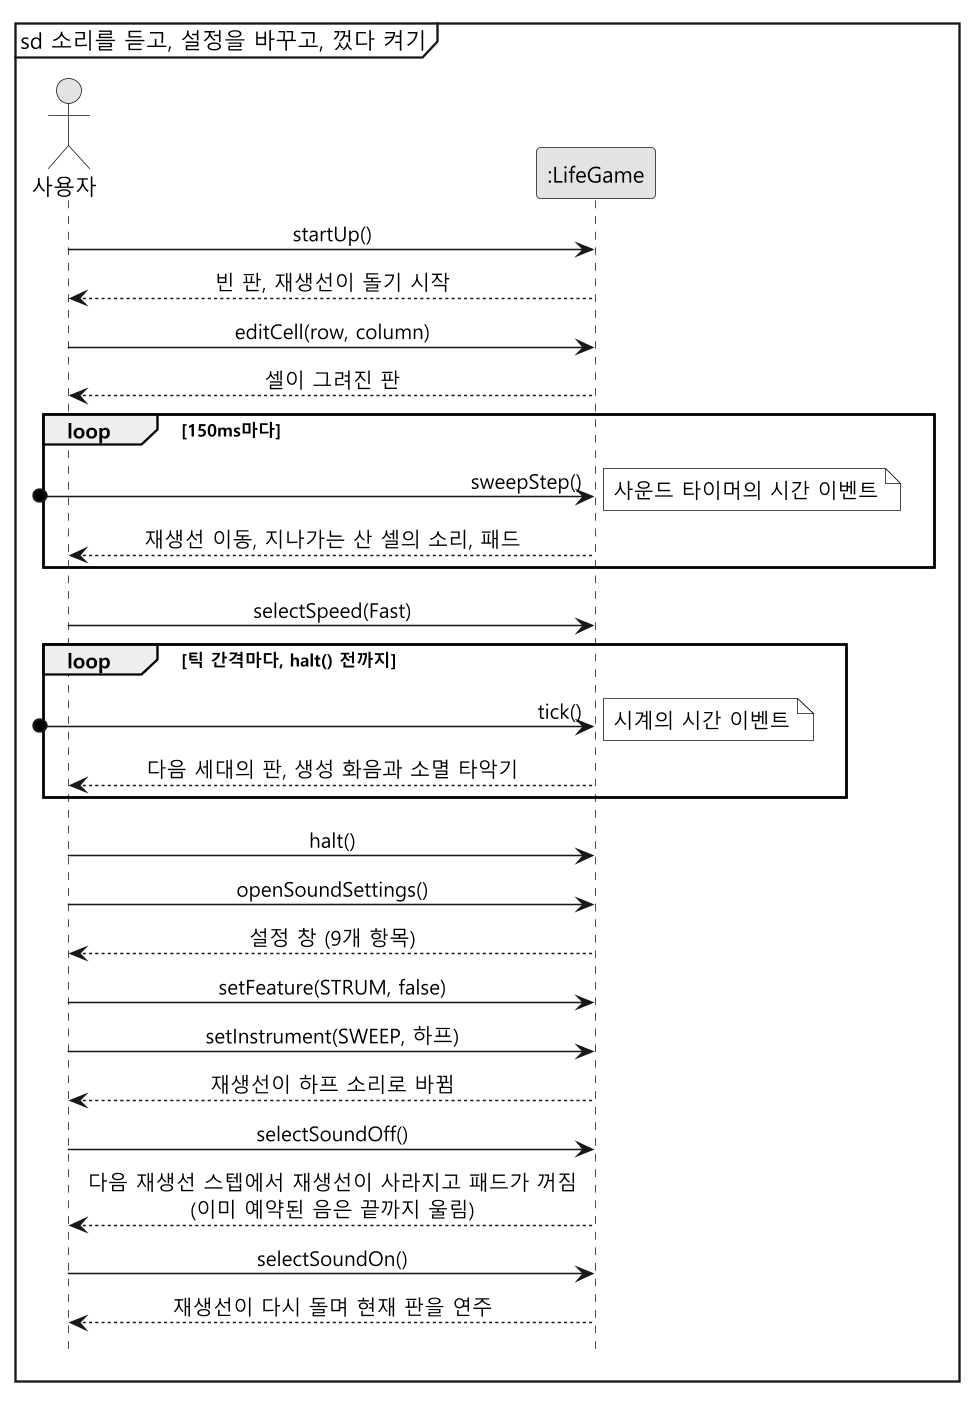
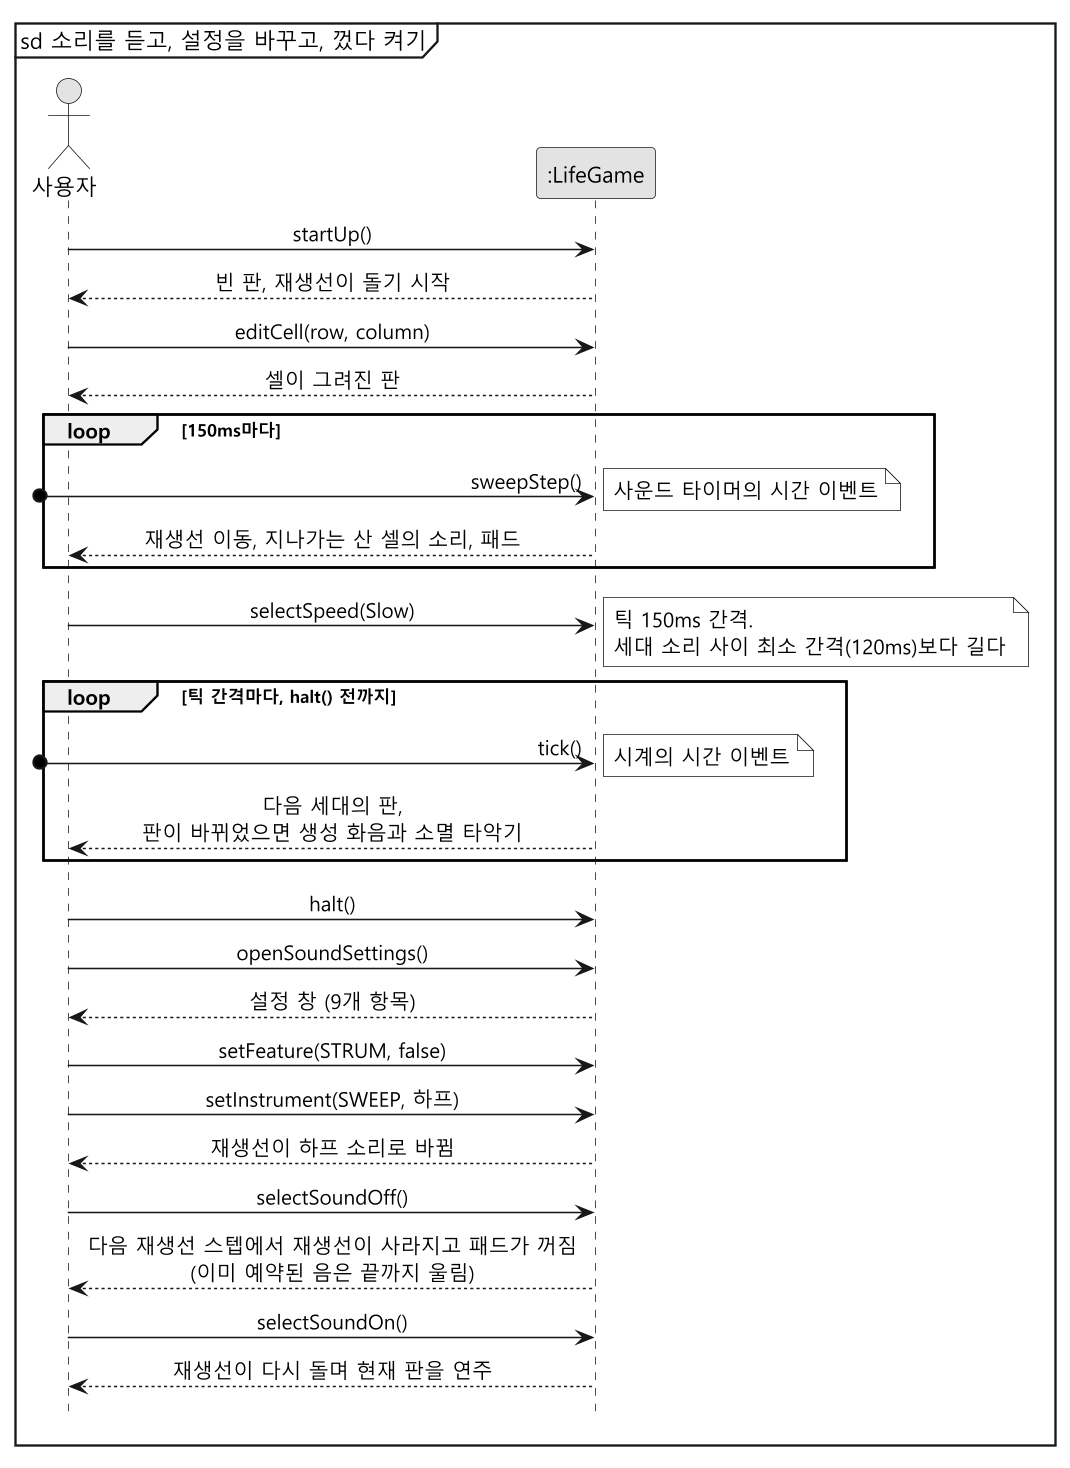
docs(sound): 제출 전 사운드 문서 최종 다듬기
한 세대에 나는 음 수를 대량 생성 레이어까지 넣어 고치고, 시스템 시퀀스 다이어그램은 속도를 Slow로 바꿔 다시 그렸다. 겹치는 설명은 줄였다.

Refs #2

diff --git a/docs/sound-effects/sound-effects-spec.md b/docs/sound-effects/sound-effects-spec.md
@@ -102,7 +102,7 @@ MIDI 신시사이저를 열 수 없는 환경에서는 `Sound disabled: ...` 한
 
 ### 2.2 유스케이스 명세
 
-기본 흐름은 아무 문제가 없을 때의 순서이고, 대안 흐름은 그중 한 단계에서 갈라지는 경우다. 대안 흐름의 1a는 기본 흐름 1단계에서 갈라지는 첫 번째 경우다.
+대안 흐름의 1a는 기본 흐름 1단계에서 갈라지는 첫 번째 경우다.
 
 #### UC-S1 Hear Generation Sound(E)
 
@@ -193,7 +193,7 @@ MIDI 신시사이저를 열 수 없는 환경에서는 `Sound disabled: ...` 한
 
 ## 3. 요구사항
 
-기능 요구사항(F)은 시스템이 무엇을 하는지, 비기능 요구사항(N)은 구조·반응성·실행 환경처럼 어떻게 동작해야 하는지다. 요구사항마다 확인하는 테스트를 함께 적었다. 테스트 내용은 6장에 있다.
+요구사항마다 확인하는 테스트를 함께 적었다. 테스트 내용은 6장에 있다.
 
 ### 3.1 기능 요구사항
 
@@ -244,7 +244,7 @@ MIDI 신시사이저를 열 수 없는 환경에서는 `Sound disabled: ...` 한
 
 `SoundEffects`가 `Clock`을 직접 구독하는 방법도 봤다. `Universe`를 고치지 않아도 되지만, 구독 순서 때문에 바뀌기 전의 판을 보게 되고 무엇이 바뀌었는지도 사운드가 따로 계산해야 했다. 방법별 비교는 [sound-effects.md](sound-effects.md) 5.1절에 있다.
 
-대신 변화를 찾으려고 틱마다 판(64×64)을 전이 전과 후에 한 번씩 읽는다. 화면을 다시 그리는 것보다 훨씬 가벼워서 그대로 뒀다. 또 리스너는 Swing 이벤트 스레드에서 불리기 때문에 오래 걸리면 화면이 같이 멈춘다. 4.2의 Command 구조는 이 때문에 필요했다.
+대신 변화를 찾으려고 틱마다 판(64×64)을 전이 전과 후에 한 번씩 읽는다. 화면을 다시 그리는 것보다 훨씬 가벼워서 그대로 뒀다. 또 리스너는 Swing 이벤트 스레드에서 불리기 때문에 오래 걸리면 화면이 같이 멈춘다.
 
 처음에는 사운드 전용 인터페이스 `Universe.GenerationListener`를 두고, 구독 관리는 Holub 코드의 `Publisher`를 썼다. 통계 기능도 같은 세대 정보가 필요해서, 두 기능이 같은 이벤트를 받도록 `BoardChangeListener`와 `BoardChangeEvent`로 합쳐졌다. 소리를 만드는 코드가 처음부터 `Universe`와 떨어져 있어서 이때 사운드 쪽에서 고친 곳은 `SoundEffects`의 수신부 30줄 정도였고, `NoteMapper`, `RepeatTracker`, `SoundSettings`는 그대로였다.
 
@@ -272,13 +272,13 @@ MIDI 신시사이저를 열 수 없는 환경에서는 `Sound disabled: ...` 한
 
 | 역할 | 클래스 |
 |---|---|
-| Component | `Cell` (`isAliveAt(row, column)`, 드래그 그리기 기능이 더함) |
+| Component | `Cell` (`isAliveAt(row, column)`) |
 | Composite | `Neighborhood` |
 | Leaf | `Resident` |
 
 `Neighborhood`는 좌표를 나눠 어느 하위 칸인지 찾고, 그 칸 안의 좌표로 바꿔 넘긴다. `Resident`는 자기 상태를 답한다. 그래서 사운드 작업에서 더한 `Universe.liveCells()`는 칸마다 가장 바깥 셀에만 물으면 되고, 판이 몇 겹인지 몰라도 된다. 판 바깥의 이웃을 대신하는 `Cell.DUMMY`도 `Cell`을 구현해서 `isAliveAt()`을 갖지만(항상 `false`), 트리에 들어가지 않으므로 Leaf로 보지 않았다.
 
-이 연산을 쓰지 않는 방법도 두 가지 있었다. Load/Store에 쓰는 Memento를 다시 쓰는 방법은 5장에 적었다. `Universe`가 `boolean[][]`을 따로 들고 있는 방법은 클릭·Clear·Load·세대 진행 때마다 실제 셀과 맞춰 줘야 하고, 한 곳만 빠져도 소리와 화면이 어긋난다.
+이 연산 대신 Load/Store에 쓰는 Memento를 다시 쓰는 방법은 5장에 적었다. `Universe`가 `boolean[][]`을 따로 들고 있는 방법은 클릭·Clear·Load·세대 진행 때마다 실제 셀과 맞춰 줘야 하고, 한 곳만 빠져도 소리와 화면이 어긋난다.
 
 `isAliveAt()`으로 읽으면 칸 하나를 읽을 때마다 바깥 `Neighborhood`, 안쪽 `Neighborhood`, `Resident` 순서로 호출이 세 번 이어진다. 판이 64×64라 부담은 작았다.
 
@@ -292,13 +292,13 @@ MIDI 신시사이저를 열 수 없는 환경에서는 `Sound disabled: ...` 한
 
 | 패턴 | 검토한 곳 | 적용하지 않은 이유 | 다시 검토할 조건 |
 |---|---|---|---|
-| Strategy | 소리를 내는 기능 5개(생성음, 대량 생성, 소멸 타악기, 패드, 재생선)를 각각 객체로 나눠 공통 인터페이스 뒤에 두기 | 지금 `SoundEffects`에는 설정을 확인하는 `settings.isOn(...)` 분기가 10곳 있다. 소리를 내는 기능을 객체로 나누면 그중 5곳은 목록을 돌며 켜졌는지 확인하는 한 줄로 바뀐다. 나머지 5곳은 여러 기능에 함께 걸리는 조절 항목(코드 진행, 스트럼, 반복 페이드, 작은 흔들림)이라 `SoundEffects`에 남는다. 기능끼리 값도 주고받는다. 대량 생성은 생성음이 고른 화음을 받아 쓰고, 코드와 반복 페이드 값은 여러 기능이 같이 쓴다. 악기를 적용하는 방식도 기능마다 다르다(채널 악기 바꾸기, 패드는 누르고 있던 음을 끊고 바꾸기, 타악기는 악기 번호를 건반 번호로 쓰기). 이 값과 방식을 담을 인터페이스부터 정해야 하는데, 기능이 5개로 정해져 있어서 이번에는 남겨 두었다 | 소리를 내는 기능을 새로 추가할 때. 가장 먼저 적용할 후보다. MIDI 채널은 16개인데 지금 생성음에 5개(음마다 좌우 위치를 따로 주려고), 나머지 네 기능에 1개씩 모두 9개를 쓰고 있어서, 새 기능에 필요한 채널 수와 배정도 같이 정해야 한다 |
+| Strategy | 소리를 내는 기능 5개(생성음, 대량 생성, 소멸 타악기, 패드, 재생선)를 각각 객체로 나눠 공통 인터페이스 뒤에 두기 | 지금 `SoundEffects`에는 설정을 확인하는 `settings.isOn(...)` 분기가 10곳 있다. 소리를 내는 기능을 객체로 나누면 그중 5곳은 목록을 돌며 켜졌는지 확인하는 한 줄로 바뀐다. 나머지 5곳은 여러 기능에 함께 걸리는 조절 항목(코드 진행, 스트럼, 반복 페이드, 작은 흔들림)이라 `SoundEffects`에 남는다. 기능끼리 값도 주고받는다. 대량 생성은 생성음이 고른 화음을 받아 쓰고, 코드와 반복 페이드 값은 여러 기능이 같이 쓴다. 악기를 적용하는 방식도 기능마다 다르다(채널 악기 바꾸기, 패드는 누르고 있던 음을 끊고 바꾸기, 타악기는 악기 번호를 건반 번호로 쓰기). 이 값과 방식을 담을 인터페이스부터 정해야 하는데, 기능이 5개로 정해져 있어서 적용하지 않았다 | 소리를 내는 기능을 새로 추가할 때. 가장 먼저 적용할 후보다. MIDI 채널은 16개인데 지금 생성음에 5개(음마다 좌우 위치를 따로 주려고), 나머지 네 기능에 1개씩 모두 9개를 쓰고 있어서, 새 기능에 필요한 채널 수와 배정도 같이 정해야 한다 |
 | Strategy | 셀을 음으로 바꾸는 규칙(반음씩, 장음계, 코드별 5음)을 바꿔 끼우기 | 같은 일을 하는 규칙 중 하나를 골라 바꿔 끼우는 자리라 Strategy가 가장 잘 맞는 곳이다. 하지만 규칙을 비교해 보고 코드별 5음 하나만 쓰기로 했고([sound-effects.md](sound-effects.md) 5.5절), 실행 중에 규칙을 바꾸는 기능이 없으므로 바꿔 끼울 틀을 둘 이유가 없었다 | 사용자가 음계를 고르는 기능을 넣을 때 |
 | State | 반복 페이드의 상태(원래 크기, 작아지는 중, 무음), Sound On/Off, 코드 진행(C → Am → F → G) | 페이드 상태는 되풀이 횟수 하나와 `1 - 되풀이 횟수/12` 식으로 정해진다. 상태마다 하는 일이 다르지 않고 볼륨 값만 다르므로, 상태 클래스를 3개 만들면 식 하나가 흩어질 뿐이다. On/Off도 `boolean` 하나다. 코드 진행도 코드마다 5음과 패드 화음의 표 항목만 다르고 처리 절차는 같아서 `chord` 인덱스 하나로 충분하다. 상태마다 동작이 크게 달라지는 Freezing 영역과는 경우가 다르다 | 상태마다 하는 일이 달라질 때 |
 | Decorator | 음 목록에 흔들림(`humanized`), 볼륨 조절(`scaled`), 대량 생성 레이어를 겹쳐 적용하는 부분 | 겹쳐 적용한다는 점은 Decorator와 비슷하다. 하지만 대상이 동작을 가진 객체가 아니라 음 값(`Note`)의 목록이고, 적용 순서도 정해져 있다. 목록을 받아 새 목록을 돌려주는 메서드로 충분했다 | 사용자가 효과를 골라 순서를 바꿔 쌓을 수 있게 할 때 |
-| Mediator | `SoundEffects`가 `NoteMapper`, `RepeatTracker`, `SoundSettings`, MIDI 채널을 조율하는 구조 | Mediator는 서로 직접 부르던 객체들이 중재자를 거쳐 주고받게 하는 패턴이다. 여기서는 `NoteMapper`와 `RepeatTracker`가 서로를 부를 일이 처음부터 없다. 조율하는 쪽이 하나일 뿐 중재할 상호작용이 없다 | 이 객체들이 서로 값을 주고받아야 할 때 |
+| Mediator | `SoundEffects`가 `NoteMapper`, `RepeatTracker`, `SoundSettings`, MIDI 채널을 조율하는 구조 | `NoteMapper`, `RepeatTracker`, `SoundSettings`는 서로를 부를 일이 처음부터 없다. `SoundEffects`가 각각을 부를 뿐 중재할 상호작용이 없다 | 이 객체들이 서로 값을 주고받아야 할 때 |
 | Singleton | `SoundEffects` | 프로그램 시작 때 `Life`에서 한 번만 만들면 되고, 다른 곳에서 찾을 일이 없다. 전역 접근점을 두는 대신 `Universe`를 인자로 받아 무엇에 의존하는지 드러냈다 | 다른 기능이 사운드에 직접 요청해야 할 때 |
-| Memento | 판 상태를 읽을 때 Load/Store용 `createMemento()`, `transfer()`를 다시 쓰기 | 이미 있는 저장 경로를 그대로 쓸 수 있다. 하지만 `createMemento()`는 부를 때마다 판 전체를 산 셀 목록으로 복사하고, 칸 하나를 물을 때도 그 목록을 처음부터 찾는다. 필요한 것만 담는 Memento를 따로 만들면 `Cell.Memento`가 `Storable`을 상속해서 파일 입출력(`load`, `flush`)까지 구현해야 한다. `Neighborhood.transfer()`가 `activeEdges`를 바꾸기 때문에 저장할 때만 쓰던 경로를 매 틱 부르게 되는 문제도 있어서, 드래그 그리기 기능이 더한 `isAliveAt()`을 쓰는 쪽(4.3)을 골랐다 | 설정 저장이나 되돌리기를 넣을 때 (판 읽기가 아니라 설정 쪽) |
+| Memento | 판 상태를 읽을 때 Load/Store용 `createMemento()`, `transfer()`를 다시 쓰기 | 이미 있는 저장 경로를 그대로 쓸 수 있다. 하지만 `createMemento()`는 부를 때마다 판 전체를 산 셀 목록으로 복사하고, 칸 하나를 물을 때도 그 목록을 처음부터 찾는다. 필요한 것만 담는 Memento를 따로 만들면 `Cell.Memento`가 `Storable`을 상속해서 파일 입출력(`load`, `flush`)까지 구현해야 한다. `Neighborhood.transfer()`가 `activeEdges`를 바꾸기 때문에 저장할 때만 쓰던 경로를 매 틱 부르게 되는 문제도 있어서, `isAliveAt()`을 쓰는 쪽(4.3)을 골랐다 | 설정 저장이나 되돌리기를 넣을 때 (판 읽기가 아니라 설정 쪽) |
 
 ## 6. JUnit 테스트
 
@@ -322,11 +322,9 @@ MIDI 신시사이저를 열 수 없는 환경에서는 `Sound disabled: ...` 한
 
 ### 6.2 주요 테스트와 확인 내용
 
-사운드 관련 테스트 가운데 요구사항을 대표하는 14개를 골랐다. 무엇을 확인하는지에 따라 네 묶음으로 나눴다.
+사운드 관련 테스트 가운데 요구사항을 대표하는 14개를 골라 확인하는 내용별로 묶었다.
 
 #### 음을 고르는 규칙
-
-어떤 판에서도 고른 음이 정해진 범위를 벗어나지 않는지 본다.
 
 | 테스트 | 어떤 내용에 대한 테스트인가 | 확인 방법과 기대 결과 | 요구사항 |
 |---|---|---|---|
@@ -336,8 +334,6 @@ MIDI 신시사이저를 열 수 없는 환경에서는 `Sound disabled: ...` 한
 
 #### 되풀이와 설정
 
-같은 변화가 되풀이되면 소리가 줄어드는지, 설정 항목끼리 서로 영향을 주지 않는지 본다.
-
 | 테스트 | 어떤 내용에 대한 테스트인가 | 확인 방법과 기대 결과 | 요구사항 |
 |---|---|---|---|
 | `RepeatTrackerTest.oscillatorFadesToSilence` | 진동자처럼 같은 변화가 되풀이되면 조용해지는지 | 두 변화를 16세대 동안 번갈아 넣는 동안 볼륨이 한 번도 커지지 않고 마지막에 0이 된다 | F6 |
@@ -345,11 +341,9 @@ MIDI 신시사이저를 열 수 없는 환경에서는 `Sound disabled: ...` 한
 
 #### 게임과의 연결
 
-실제 게임 동작에 사운드가 맞게 반응하는지 본다.
-
 | 테스트 | 어떤 내용에 대한 테스트인가 | 확인 방법과 기대 결과 | 요구사항 |
 |---|---|---|---|
-| `NeighborhoodTest.isAliveAtFindsResidentThroughNestedNeighborhoods` | 사운드가 판을 복사할 때 쓰는 `isAliveAt()`(드래그 그리기 기능이 더함)이 여러 겹으로 나뉜 판에서 좌표를 제대로 찾는지 | 두 겹으로 나뉜 판에서 클릭한 3행 2열만 `true`이고, 행과 열을 바꾼 2행 3열은 `false`다 | F1, F7 |
+| `NeighborhoodTest.isAliveAtFindsResidentThroughNestedNeighborhoods` | 사운드가 판을 복사할 때 쓰는 `isAliveAt()`이 여러 겹으로 나뉜 판에서 좌표를 제대로 찾는지 | 두 겹으로 나뉜 판에서 클릭한 3행 2열만 `true`이고, 행과 열을 바꾼 2행 3열은 `false`다 | F1, F7 |
 | `UniverseStoreTest.playheadIsDrawnOverTheBoardAndCanBeRemoved` | 재생선이 판 위에 보이고 지워지는지 | 판을 이미지로 그려 재생선 자리의 픽셀이 초록색(0, 170, 80)이고, `-1`로 지우면 그 픽셀이 바뀐다 | F7 |
 | `SoundEffectsIntegrationTest.realBlinkerUpdatesStatisticsAndSchedulesBirthAndDeathSoundsOnce` | 실제 세대 진행이 Observer를 거쳐 소리로 이어지는지 | 블링커를 그리는 동안은 예약이 없다. 한 틱 뒤 생성 화음이 나고 타악기는 정확히 한 번 친다. 같은 이벤트로 통계도 세대 1로 바뀐다 | F1, F3 |
 | `SoundEffectsIntegrationTest.stableAndEmptyGenerationsNeverScheduleGenerationSounds` | 변화가 없는 세대는 조용한지 | 블록(2×2)만 있는 판과 빈 판에서 여러 틱을 진행해도 예약된 소리가 없다 | F5 |
@@ -359,8 +353,6 @@ MIDI 신시사이저를 열 수 없는 환경에서는 `Sound disabled: ...` 한
 | `SoundEffectsIntegrationTest.missingMidiDeviceDoesNotPreventStatisticsFromAdvancing` | MIDI 장치가 없을 때 게임이 계속되는지 | 신시사이저를 얻을 때 예외가 나도 `install()`이 예외 없이 끝나고, 틱을 진행하면 통계가 세대 1로 바뀐다 | N3 |
 
 #### 다른 기능과 함께
-
-다른 확장 기능과 같이 써도 소리가 맞게 나는지 본다.
 
 | 테스트 | 어떤 내용에 대한 테스트인가 | 확인 방법과 기대 결과 | 요구사항 |
 |---|---|---|---|
@@ -394,8 +386,6 @@ MIDI 신시사이저를 열 수 없는 환경에서는 `Sound disabled: ...` 한
 앞의 네 예약은 음 두 개의 켜기·끄기이고, 마지막이 타악기다. 음의 시작 시각은 작은 흔들림이 더해지기 때문에 범위로 확인한다. 둘째 음이 25~40ms인 것은 스트럼 간격 25ms에 흔들림 0~15ms가 따로 더해져서다. 음 길이(220ms)와 타악기 시각(60ms)은 정확한 값으로 확인한다. 끝으로 예약을 실제로 실행해 생성음 채널(0~4번)에서 음 2개, 타악기 채널(9번)에서 쉐이커(82번) 한 번이 나는지 본다.
 
 ### 6.4 JUnit으로 확인하지 않는 것
-
-자동 테스트로 확인하지 않는 것은 네 가지다.
 
 - 실제 장치에서 나는 음색과 음량, 설정 창에서 악기를 바꿨을 때 실제로 다르게 들리는지
 - 여러 음이 함께 날 때 실제로 어울리게 들리는지. 테스트는 각 음이 C장조 안에 있는지까지만 본다

diff --git a/docs/sound-effects/sound-uml.md b/docs/sound-effects/sound-uml.md
@@ -10,13 +10,11 @@
 
 ![사운드를 붙이기 전 클래스 다이어그램](diagram/class-before.png)
 
-원본에서 `Universe`는 `Clock.Listener`로 틱을 받아 `transition()`을 하고 다시 그리기만 한다. 어떤 셀이 생기고 사라졌는지 밖에 알리는 통로가 없고, `Cell`에는 좌표 하나의 생사를 묻는 연산도 없다. 사운드를 붙이려면 이 두 가지가 필요했다. 앞의 것은 사운드 작업에서 더했고, 뒤의 것은 드래그 그리기 기능이 더한 `isAliveAt()`을 그대로 쓴다.
+원본에서 `Universe`는 `Clock.Listener`로 틱을 받아 `transition()`을 하고 다시 그리기만 한다. 어떤 셀이 생기고 사라졌는지 밖에 알리는 통로가 없고, `Cell`에는 좌표 하나의 생사를 묻는 연산도 없다. 알리는 통로는 사운드 작업에서 더했고, 좌표로 묻는 연산은 드래그 그리기 기능이 더한 `isAliveAt()`을 그대로 쓴다.
 
 ### 1.2 사운드를 붙인 뒤: 게임과 사운드의 연결
 
 ![게임과 사운드의 연결 클래스 다이어그램](diagram/class-after.png)
-
-그림에서 볼 곳은 두 가지다.
 
 - Observer: `Universe`(Subject)가 `BoardChangeListener`(Observer) 목록을 갖고, 판이 바뀔 때마다 `BoardChangeEvent`를 만들어 보낸다. `SoundEffects`와 `Statistics`가 ConcreteObserver다. `Universe`는 사운드 패키지를 import하지 않는다. 게임 쪽에서 사운드를 아는 곳은 시작점인 `Life`가 `install()`을 부르는 한 곳뿐이다.
 - Composite 재사용: 사운드 작업에서 더한 `Universe.liveCells()`가 판을 복사할 때, 드래그 그리기 기능이 `Cell`(Component)에 더한 `isAliveAt(row, column)`을 쓴다. `Neighborhood`(Composite)는 좌표를 하위 칸에 넘기고 `Resident`(Leaf)가 답한다. 사운드 작업에서 더한 연산이 아니라서 굵게 쓰지 않았다.
@@ -187,8 +185,8 @@ Command 패턴의 역할은 그림의 범례에 적었다. `SoundEffects`(Client
 
 ## 5. 다시 그리기
 
-PlantUML 1.2026.10 JAR(팀 공용 버전, SHA-256은 [캡처 도식 안내](../capture/diagrams/README.md)와 같음)로 로컬에서 그렸다. 클래스·상태·유스케이스 다이어그램은 `!pragma layout smetana`를 써서 Graphviz 없이 그려진다. 저장소 루트에서 실행한다.
+PlantUML 1.2026.10 JAR(팀 공용 버전, SHA-256은 [캡처 도식 안내](../capture/diagrams/README.md)와 같음)로 로컬에서 그렸다. 클래스·상태·유스케이스 다이어그램은 `!pragma layout smetana`를 써서 Graphviz 없이 그려진다. 저장소 루트에서 실행하고, JAR 경로는 내려받은 위치로 바꾼다.
 
-```powershell
-java -Djava.awt.headless=true -jar C:\tools\plantuml-1.2026.10.jar -tpng -charset UTF-8 docs/sound-effects/diagram/*.puml
+```
+java -Djava.awt.headless=true -jar /path/to/plantuml-1.2026.10.jar -tpng -charset UTF-8 docs/sound-effects/diagram/*.puml
 ```
